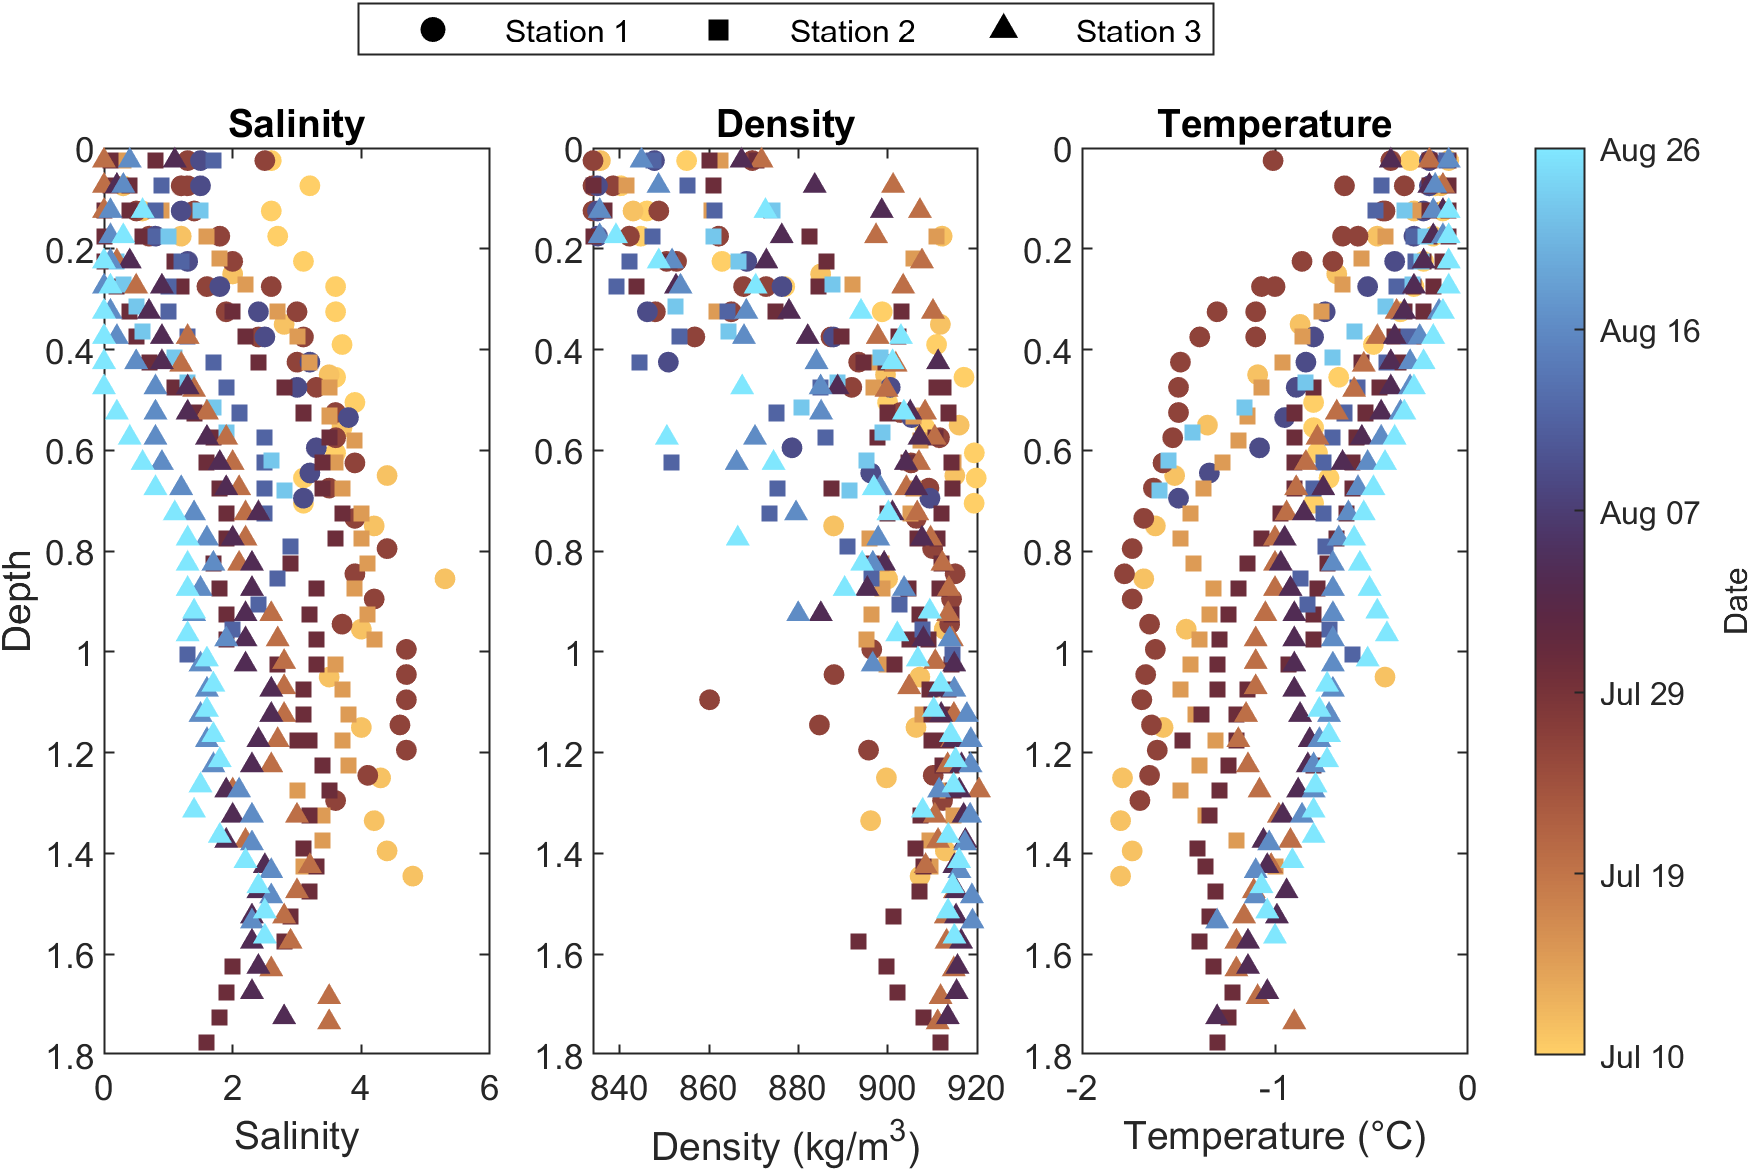
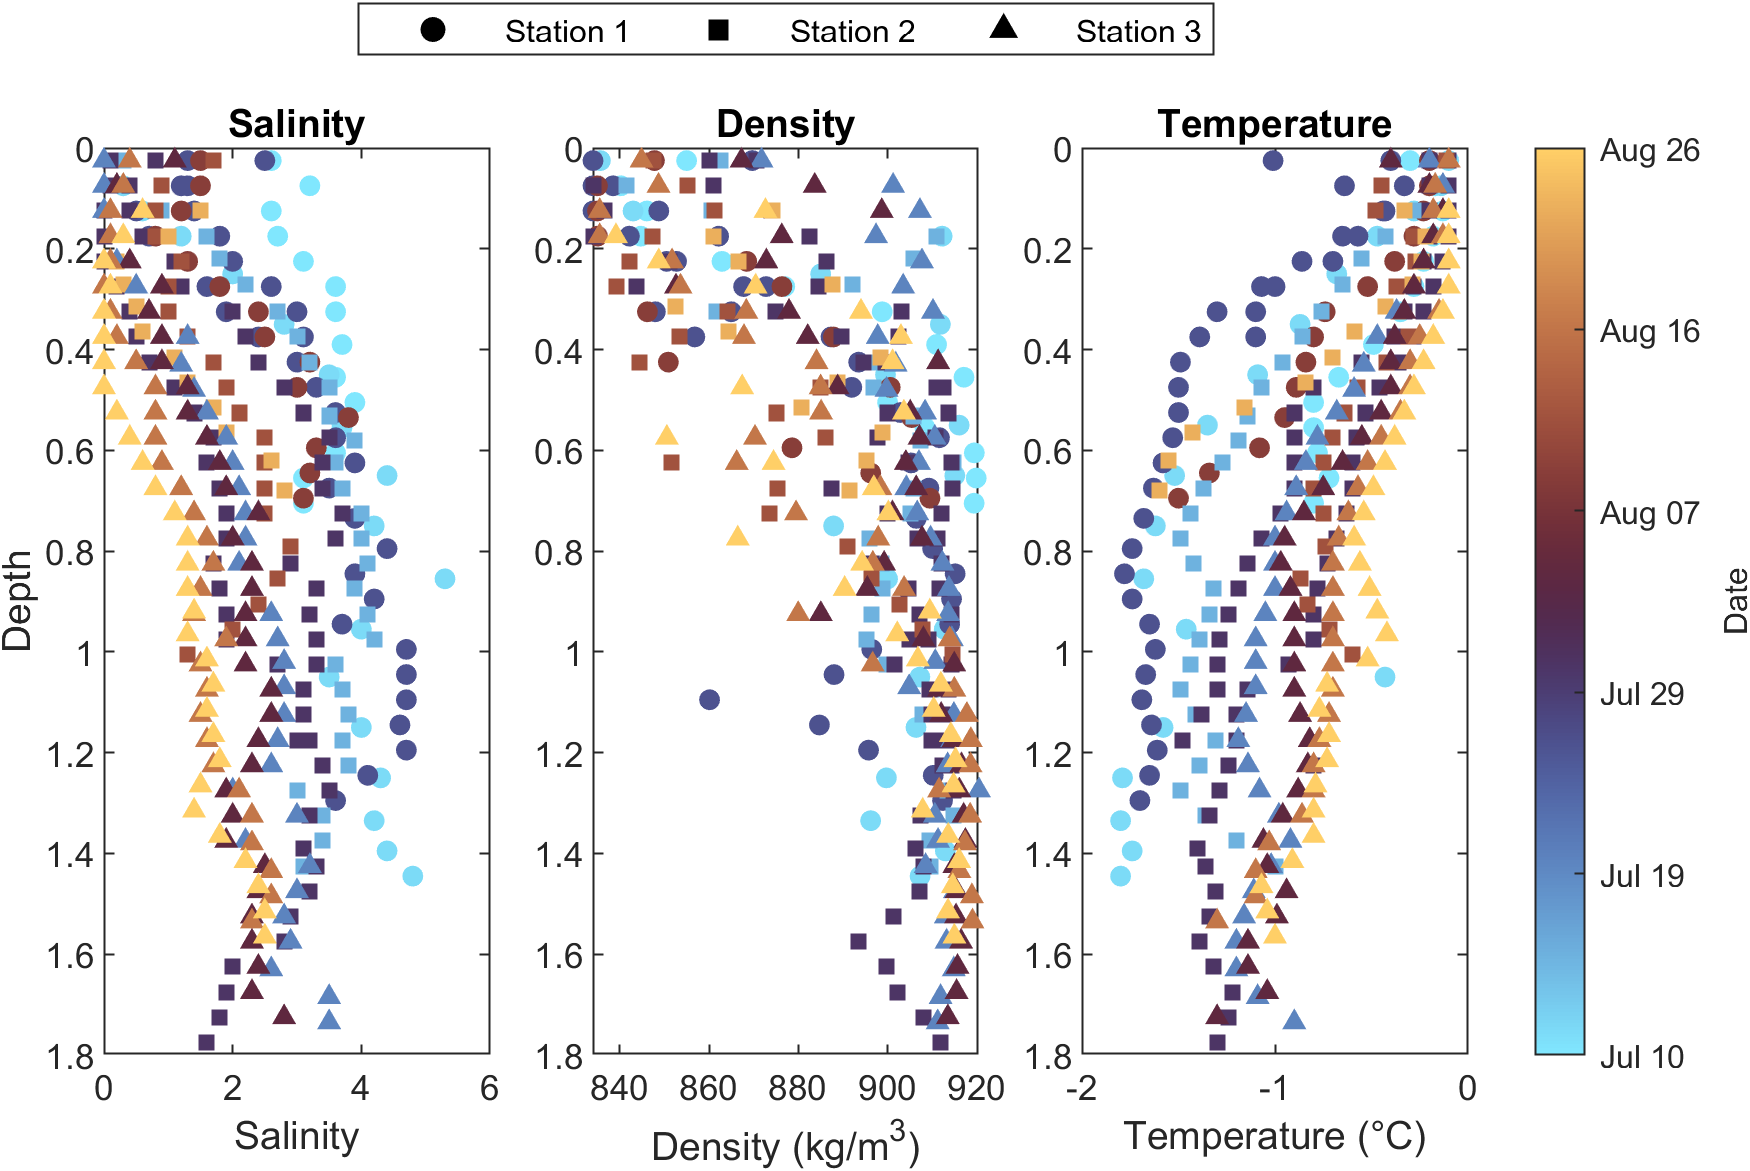
Add files via upload

diff --git a/import_all_cores.m b/import_all_cores.m
@@ -748,7 +748,7 @@ tiledlayout(1,3,'Padding','compact','TileSpacing','compact');
 
 markers = containers.Map([1 2 3], {'o','s','^'});
 c = datenum(t);
-load("managua.mat"); colormap(managua);
+load("managua.mat"); colormap(flipud(managua));
 
 % ===== Panel 1: Salinity =====
 nexttile; hold on; box on;
